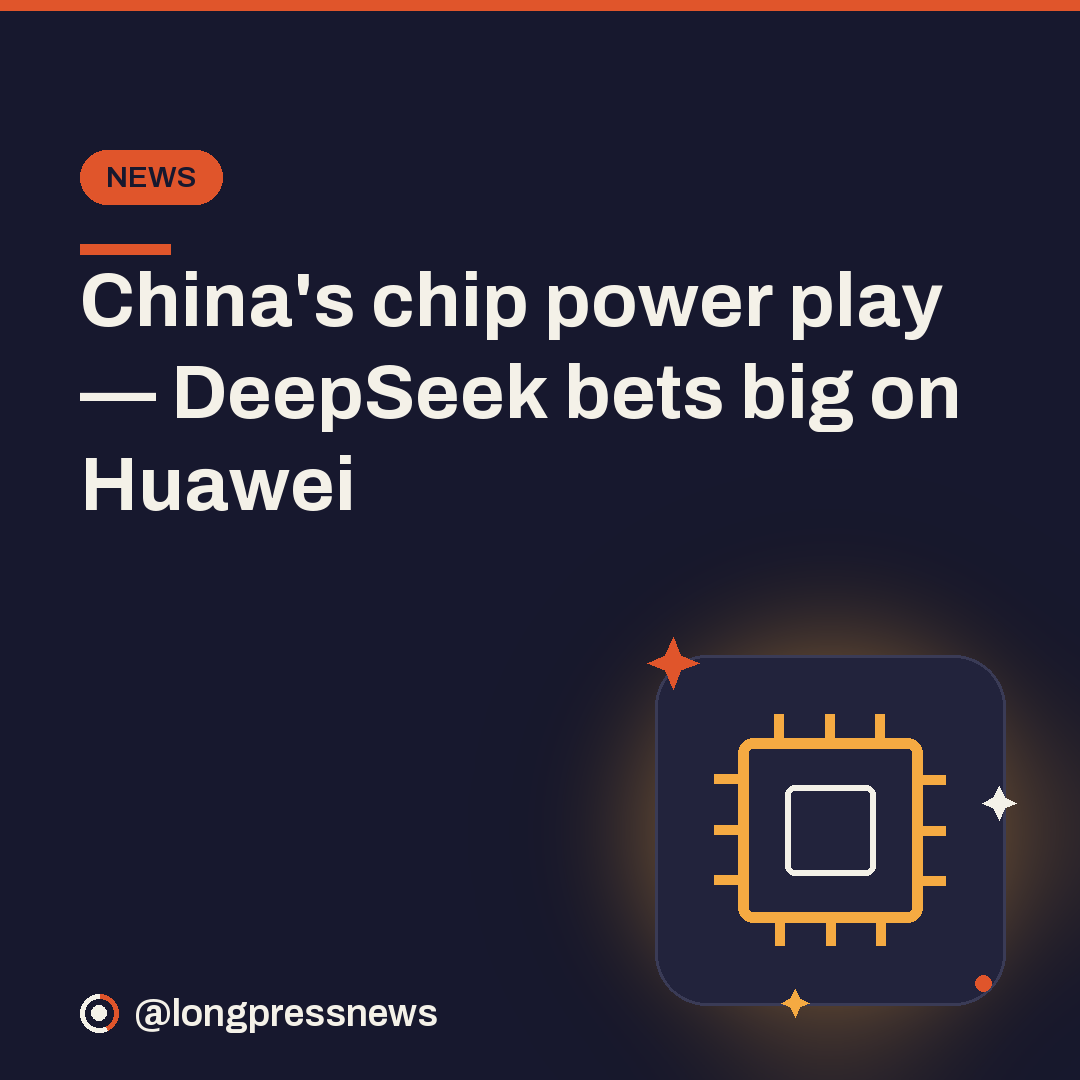
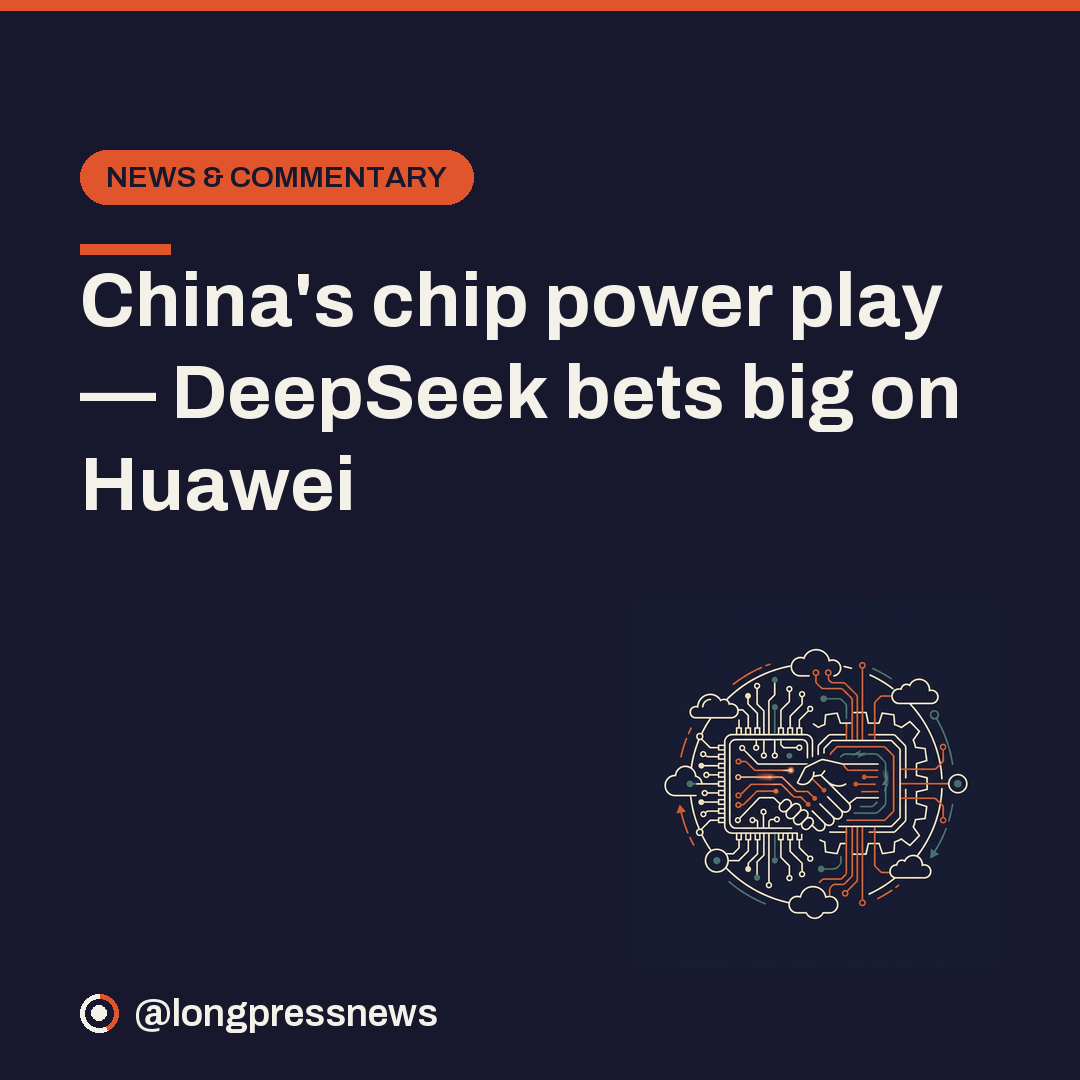
Generate per-story AI illustrations for cards, bigger inset, text-free site variant
make_card.py now calls Gemini image gen (Nano Banana Pro) per story,
deriving one on-brand visual metaphor from the actual story content
instead of using the old small fixed icon set. Two files per story:
card_N.png (headline baked in, for social) and illustration_N.png beside
it (same picture, no headline -- for the Long Press site, which already
renders the real headline as text). Falls back to the old drawn icon on
any failure (no key, network error, timeout) so it never blocks a
publish. Regenerated all 5 of today's cards through the new pipeline.

Claude-Session: https://claude.ai/code/session_01CBpXVyAhHGaiiVAdr6B9Li

Changed region(s): [[0.55, 0.55, 1.0, 1.0], [0.1833, 0.1222, 0.4583, 0.2139]]

diff --git a/scripts/social/make_card.py b/scripts/social/make_card.py
@@ -2,12 +2,90 @@
 """Long Press card generator (longpress.news).
 Usage: python3 make_card.py "<PILLAR>" "<HOOK>" "<SUBTITLE or ''>" <out.png> [hook|ig|news]
 """
-import glob, os, sys
+import base64, glob, json, os, sys, urllib.error, urllib.request
 from PIL import Image, ImageDraw, ImageFont
 try:
     import icons as _icons
 except Exception:
     _icons = None
+
+# --- AI illustration (13 Sept) ------------------------------------------
+# Per-story illustration via Gemini image gen, replacing the small drawn
+# icon with something that actually depicts the story. Two files come out
+# of every card: card_N.png (this card, headline baked in, for social) and
+# illustration_N.png beside it (same picture alone, no headline -- that one
+# is what the LONG PRESS SITE shows, since the site already renders the
+# real headline as text and a second copy baked into the picture is just
+# redundant there). import-roundup.mjs on the longpress side looks for
+# illustration_N.png next to each card_N.png and prefers it; nothing on
+# this side has to know that -- it is purely a naming convention.
+#
+# Never let this block a publish: no key, a network hiccup, or a slow
+# response all just fall through to the old drawn icon (draw_icon below).
+_GEMINI_MODEL = "gemini-3-pro-image-preview"  # "Nano Banana Pro"
+_GEMINI_TIMEOUT = 25  # seconds -- the daily run is already tight against 10:00 IST
+
+def _illustration_path(out):
+    """card_3.png -> illustration_3.png, same folder. Falls back to a
+    generic name if `out` doesn't match the card_N.png convention (e.g. a
+    one-off manual call) so this never raises."""
+    d, base = os.path.split(out)
+    if base.startswith("card_") and base.endswith(".png"):
+        return os.path.join(d, "illustration_" + base[len("card_"):])
+    return os.path.join(d, "illustration_" + base)
+
+def generate_illustration(pillar, hook, sub, illus_path):
+    """Write a full-bleed, on-brand, text-free illustration for this story
+    to illus_path. Returns True on success, False on ANY failure (missing
+    key, network error, bad response, timeout) -- callers must treat False
+    as "no illustration available" and fall back, never raise."""
+    if os.path.exists(illus_path):
+        return True  # already made this run/day -- don't re-spend the call
+    api_key = os.environ.get("GEMINI_API_KEY")
+    if not api_key:
+        return False
+    story = f"{pillar}: {hook}" + (f" -- {sub}" if sub else "")
+    prompt = f"""Flat vector editorial illustration, square, filling the
+entire frame edge to edge with a solid flat background color of exactly
+#17182E (a dark midnight navy) -- no vignette, no gradient, no border, no
+card, no panel, no rounded rectangle, no glow, no checkerboard, no
+transparency. The background must be one single flat opaque color from
+edge to edge.
+
+Invent one clear visual metaphor for this tech news story, centered with
+generous padding, rendered only in thin clean line art. Story: {story}
+
+Do not depict any real person, real company logo, brand mark, wordmark, or
+any text or letters anywhere in the image -- use abstract or symbolic
+objects instead of literal logos or trademarks.
+
+Line art and accent colors only, background stays pure #17182E: use warm
+cream #F4F1E8 for the main linework, orange #E0552B as the primary accent,
+and muted teal #3E7C74 as a rare secondary accent. Minimal geometric style,
+no photorealism, no drop shadow, no extra background shapes of any kind.
+"""
+    body = json.dumps({
+        "contents": [{"parts": [{"text": prompt}]}],
+        "generationConfig": {"responseModalities": ["IMAGE"]},
+    }).encode()
+    url = (f"https://generativelanguage.googleapis.com/v1beta/models/"
+           f"{_GEMINI_MODEL}:generateContent?key={api_key}")
+    req = urllib.request.Request(url, data=body,
+                                  headers={"Content-Type": "application/json"},
+                                  method="POST")
+    try:
+        with urllib.request.urlopen(req, timeout=_GEMINI_TIMEOUT) as resp:
+            data = json.load(resp)
+        for cand in data.get("candidates", []):
+            for part in cand.get("content", {}).get("parts", []):
+                inline = part.get("inlineData")
+                if inline and inline.get("data"):
+                    with open(illus_path, "wb") as f:
+                        f.write(base64.b64decode(inline["data"]))
+                    return True
+    except Exception as e:
+        print(f"illustration: skipped ({e})", file=sys.stderr)
+    return False
 
 # Long Press palette - the newsroom identity, taken from the site's own
 # tokens in longpress.news src/styles/global.css. Cards render on the site's
@@ -129,6 +207,22 @@ def draw_icon(img, icon, W, H):
         return
     _icons.render(img, icon, W - 250, H - 250, 175)
 
+def draw_illustration(img, illus_path, W, H, text_bottom, margin):
+    """Paste the generated illustration bottom-right, sized to whatever
+    vertical space is actually left below the headline/subtitle -- so a
+    long three-line headline gets a smaller picture instead of colliding
+    with it, and a short one-line headline gets a bigger one."""
+    wordmark_top = H - 78 - 34
+    avail = wordmark_top - text_bottom - 24
+    size = max(0, min(560, avail, W - margin * 2))
+    if size < 220:
+        return False  # too little room left to be worth showing at all
+    illus = Image.open(illus_path).convert("RGB").resize((size, size), Image.LANCZOS)
+    x = W - margin - size
+    y = wordmark_top - size
+    img.paste(illus, (x, y))
+    return True
+
 def make(pillar, hook, sub, out, mode, icon=None):
     if mode == "ig":
         W, H = 1080, 1350
@@ -162,10 +256,15 @@ def make(pillar, hook, sub, out, mode, icon=None):
             y += 20
             d.text((margin, y), ln, font=sf, fill=MUTED, anchor="lm")
             y += 46
-    draw_icon(img, icon, W, H)
+    illus_path = _illustration_path(out)
+    used_illustration = False
+    if generate_illustration(pillar, hook, sub, illus_path):
+        used_illustration = draw_illustration(img, illus_path, W, H, y, margin)
+    if not used_illustration:
+        draw_icon(img, icon, W, H)
     wordmark(ImageDraw.Draw(img), W, H)
     img.convert("RGB").save(out)
-    print("saved", out)
+    print("saved", out, "(illustration)" if used_illustration else "(icon fallback)")
 
 if __name__ == "__main__":
     pillar = sys.argv[1]
